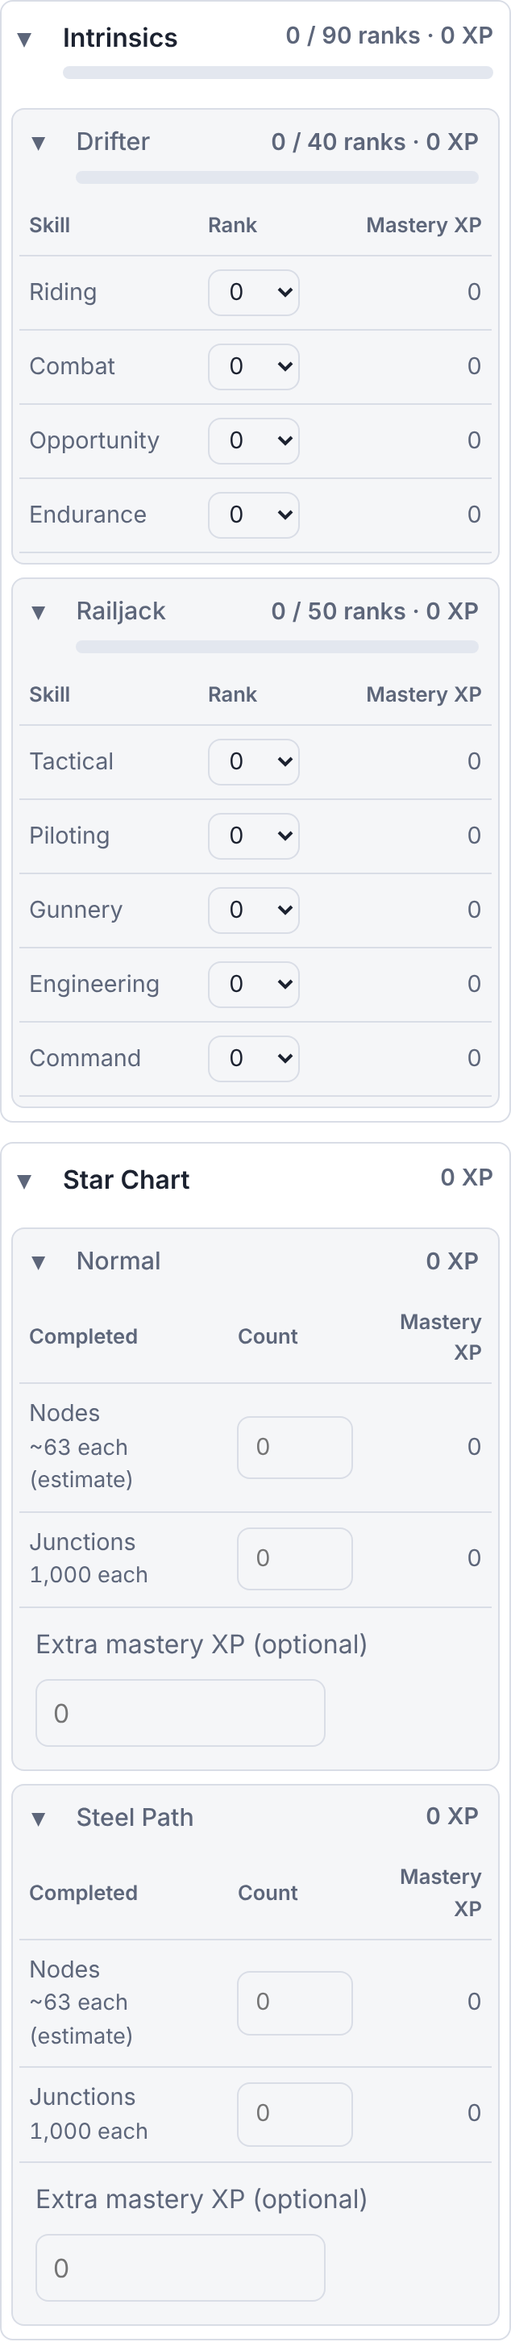
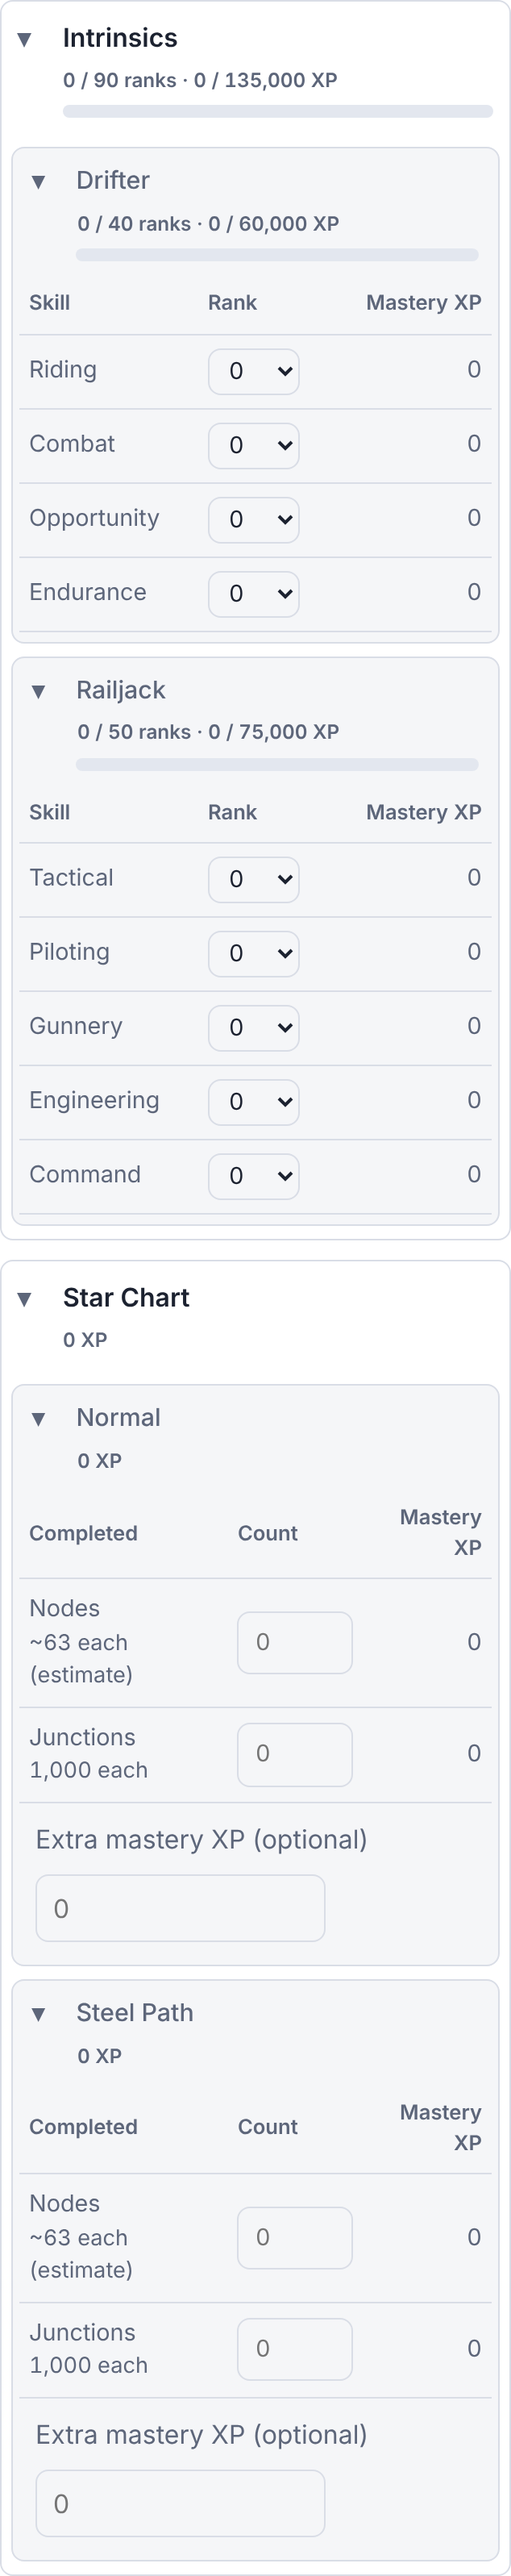
Category headings show N / N maxed and N / N XP; intrinsics show ranks
On phones the count moves to its own row between the title and the bar.

Claude-Session: https://claude.ai/code/session_01APemrT85MxDH99zKt1411N

diff --git a/js/app.js b/js/app.js
@@ -152,7 +152,10 @@
   function sectionHtml(key, label, allRows, visible, forced, inner, cls) {
     const done = allRows.filter((r) => r.mastered).length;
     const pct = allRows.length ? Math.round((done / allRows.length) * 100) : 0;
-    return detailsHtml(key, label, done + " / " + allRows.length, pct, forced || openLists.has(key), forced, inner, cls);
+    const xp = allRows.reduce((n, r) => n + r.masteryXp, 0);
+    const maxXp = allRows.reduce((n, r) => n + r.maxMasteryXp, 0);
+    const countText = done + " / " + allRows.length + " maxed \u00b7 " + fmt(xp) + "\u00a0/\u00a0" + fmt(maxXp) + "\u00a0XP";
+    return detailsHtml(key, label, countText, pct, forced || openLists.has(key), forced, inner, cls);
   }
 
   // ---- other sources: Star Chart (Normal, Steel Path) and Intrinsics (Drifter, Railjack) ----
@@ -161,7 +164,7 @@
 
   // Works for a single source and for a group of them.
   function otherCount(x) {
-    return x.kind === "ranks" ? x.rank + " / " + x.maxRank + " ranks \u00b7 " + fmt(x.xp) + " XP" : fmt(x.xp) + " XP";
+    return x.kind === "ranks" ? x.rank + " / " + x.maxRank + " ranks \u00b7 " + fmt(x.xp) + "\u00a0/\u00a0" + fmt(x.maxXp) + "\u00a0XP" : fmt(x.xp) + " XP";
   }
   const otherPct = (x) => (x.kind === "ranks" ? pctOf(x.rank, x.maxRank) : null);
 

diff --git a/index.html b/index.html
@@ -5,8 +5,8 @@
   <meta name="viewport" content="width=device-width, initial-scale=1">
   <title>Warframe Mastery Tracker</title>
   <meta name="description" content="Track Warframe mastery rank progress from your own profile data. Runs entirely in your browser.">
-  <link rel="stylesheet" href="css/style.css?v=20261101u">
-  <script src="js/theme.js?v=20261101u"></script>
+  <link rel="stylesheet" href="css/style.css?v=20261101z">
+  <script src="js/theme.js?v=20261101z"></script>
 </head>
 <body>
   <header class="site-header">
@@ -124,7 +124,7 @@
     </div>
   </footer>
 
-  <script src="js/mastery.js?v=20261101u"></script>
-  <script src="js/app.js?v=20261101u"></script>
+  <script src="js/mastery.js?v=20261101z"></script>
+  <script src="js/app.js?v=20261101z"></script>
 </body>
 </html>

diff --git a/css/style.css b/css/style.css
@@ -250,6 +250,9 @@ td select { padding: 4px 8px; }
   .list table { font-size: 0.9rem; }
   .list td { overflow-wrap: anywhere; }
   .list > summary { row-gap: 6px; padding: 10px; }
+  /* Title on one row, the count on the next, then the bar. */
+  /* 1.316em of this smaller text equals the 1em marker, so it lines up with the bar. */
+  .list-count { flex: 0 0 calc(100% - 1.316em - 12px); margin-left: calc(1.316em + 12px); white-space: normal; font-size: 0.76rem; text-align: left; }
 }
 
 /* Star Chart rows */

diff --git a/js/mastery.js b/js/mastery.js
@@ -306,6 +306,7 @@
         xp: members.reduce((n, s) => n + s.xp, 0),
         rank: ranked ? members.reduce((n, s) => n + s.rank, 0) : null,
         maxRank: ranked ? members.reduce((n, s) => n + s.maxRank, 0) : null,
+        maxXp: ranked ? members.reduce((n, s) => n + s.maxXp, 0) : null,
       };
     });
     return { sources, groups, total: sources.reduce((n, s) => n + s.xp, 0) };

diff --git a/README.md b/README.md
@@ -49,7 +49,7 @@ You can also tick any item by hand to mark it as mastered, for example if you'd 
 
 ### 5. Work through your Progress
 
-The **Progress** section has one expandable list each for **Warframes**, **Weapons**, **Companions** and **Vehicles**. Click a list's heading to open or close it. Weapons, Companions and Vehicles are split further into expandable sections by type: Primary, Secondary, Melee, Archgun, Archmelee and Companion weapons; Sentinels and Beasts (Kubrows, Kavats, Vulpaphylas and Predasites); and Archwings and Necramechs. Every heading shows how many items you've mastered out of the total, with a small bar.
+The **Progress** section has one expandable list each for **Warframes**, **Weapons**, **Companions** and **Vehicles**. Click a list's heading to open or close it. Weapons, Companions and Vehicles are split further into expandable sections by type: Primary, Secondary, Melee, Archgun, Archmelee and Companion weapons; Sentinels and Beasts (Kubrows, Kavats, Vulpaphylas and Predasites); and Archwings and Necramechs. Every heading shows how many items are maxed out of the total, then your mastery XP out of the most the section can give (for example "75 / 119 maxed · 450,000 / 714,000 XP"), with a progress bar underneath. Intrinsics show ranks in place of maxed items, for example "72 / 90 ranks".
 
 Inside each list you'll see every item with the mastery rank needed to use it, your current rank, and awarded mastery XP for it. Tick the box beside an item to mark it as mastered.
 
